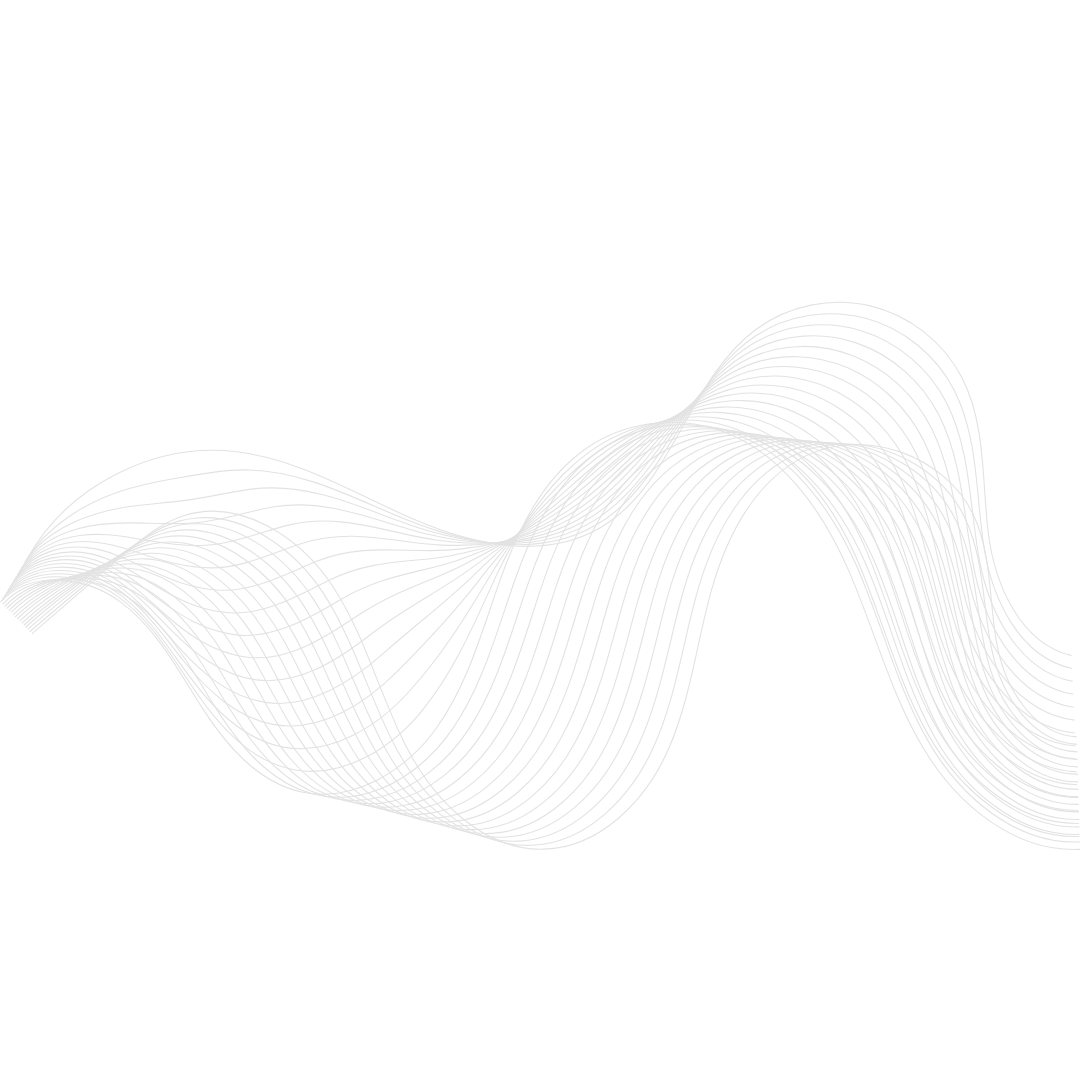
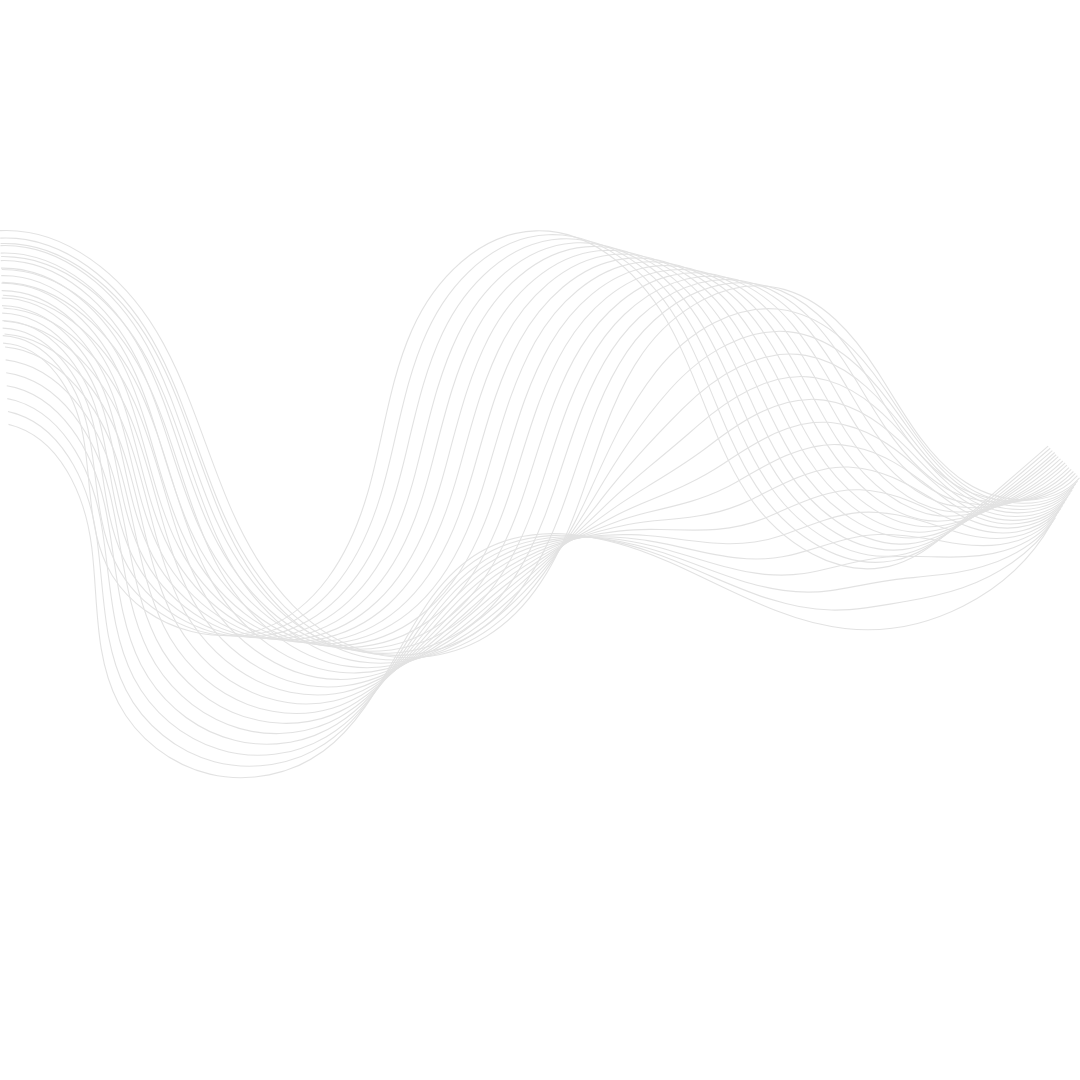
feat: add border in patrocinador and map component

diff --git a/src/app/page.tsx b/src/app/page.tsx
@@ -1,3 +1,5 @@
+"use client"
+
 import Footer from "@/components/footer";
 import Inicio from "@/components/inicio";
 import MapContainer from "@/components/map";
@@ -5,11 +7,25 @@ import Mapa from "@/components/Mapa";
 import { Navbar } from "@/components/navbar";
 import Patrocinadores from "@/components/patrocinadores";
 import Image from "next/image";
+import { useTheme } from "next-themes";
 
 export default function Home() {
+  const { theme } = useTheme(); // Pegue o tema atual
+
+  const backgroundImage = theme === 'dark' ? '/ondas2.png' : '/ondas1.png';
+
   return (
     <>
       <main className="w-[100vw] h-[100vh] flex flex-col items-center mb-16">
+        <div className="flex -z-50 absolute w-full h-full opacity-35">
+          <Image
+            src={backgroundImage}
+            alt="Teste"
+            layout="fill"
+            objectFit="cover"
+            className=""
+          />
+        </div>
         <Navbar />
         <Inicio />
       </main>

diff --git a/src/components/Mapa.tsx b/src/components/Mapa.tsx
@@ -4,13 +4,13 @@ export default function Mapa() {
   return (
     <>
       <main className="w-[100vw] mt-32 px-10 pt-3 md:px-20 space-y-6">
-        <div className="flex flex-col items-center px-32">
+        <div className="flex flex-col items-center px-32 border-[--orange-theme] border rounded-2xl p-8">
           <div className="flex w-[100vw] flex-col items-center">
-            <h1 className="text-[1.563rem] font-bold uppercase text-[--title-color] mb-6">
-              Localização do Evento
+          <h1 className="absolute -mt-[55px] bg-[--orange-theme] text-[1.563rem] font-medium uppercase text-black py-1 px-3 rounded-lg">
+              LOCALIZAÇÃO DO EVENTO
             </h1>
           </div>
-          <div className="bg-[--white] p-12 rounded-2xl w-[100%] h-[100vh]">
+          <div className="p-12 rounded-2xl w-[100%] h-[100vh]">
             <MapContainer />
           </div>
         </div>

diff --git a/src/components/patrocinadores.tsx b/src/components/patrocinadores.tsx
@@ -82,7 +82,7 @@ export default function Patrocinadores() {
       <main className="w-[100vw] px-10 pt-3 md:px-20 space-y-6">
         <div className="flex flex-col items-center gap-12 border-[--orange-theme] border p-8 rounded-2xl">
           <div className="flex flex-col items-center">
-            <h1 className="absolute -mt-[55px] bg-[--orange-theme] text-[1.563rem] font-bold uppercase text-black py-1 px-3 rounded-lg">
+            <h1 className="absolute -mt-[55px] bg-[--orange-theme] text-[1.563rem] font-medium uppercase text-black py-1 px-3 rounded-lg">
               Parceiros
             </h1>
           </div>

diff --git a/src/components/container.tsx b/src/components/container.tsx
@@ -25,7 +25,7 @@ export default function Container({
 
   return (
     <div
-    className="flex flex-col items-center bg-[--white] gap-2 p-4 shadow-xl rounded-2xl">
+    className="flex items-center bg-[--white] p-4 shadow-xl rounded-2xl">
       <Link href={link}>
         <Image
           alt="Logo"
@@ -35,8 +35,6 @@ export default function Container({
           width={180}
         />
       </Link>
-      <h1 className="text-lg font-bold text-[--zinc-color]">{titulo}</h1>
-      <p className="text-center text-[--color-text]">{description}</p>
     </div>
   );
 }

diff --git a/next.config.js b/next.config.js
@@ -1,0 +1,6 @@
+/** @type {import('next').NextConfig} */
+const nextConfig = {
+  reactStrictMode: true,
+};
+
+module.exports = nextConfig;
